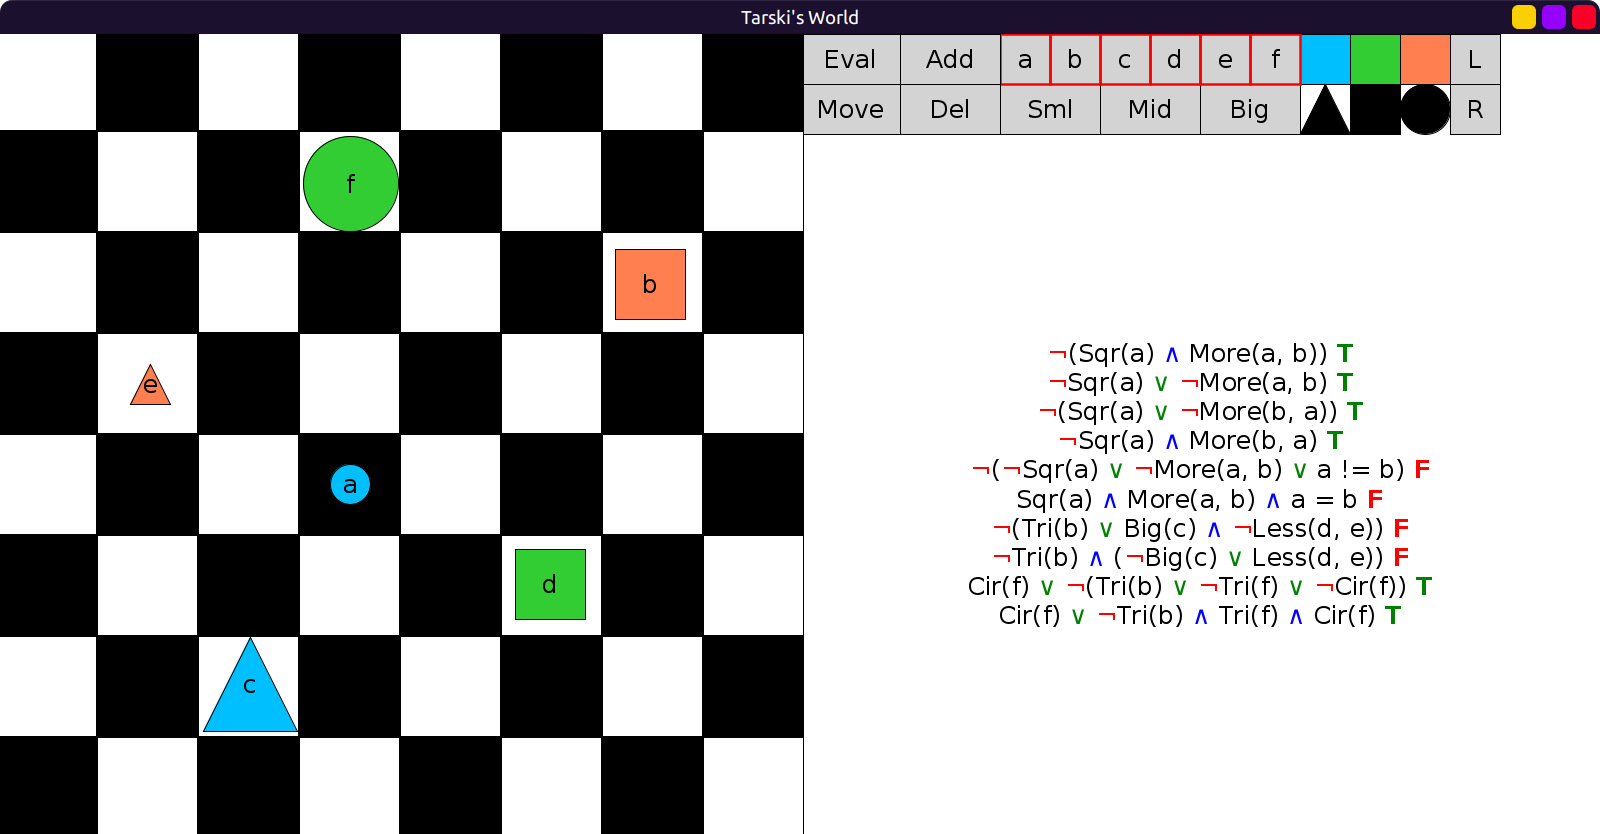
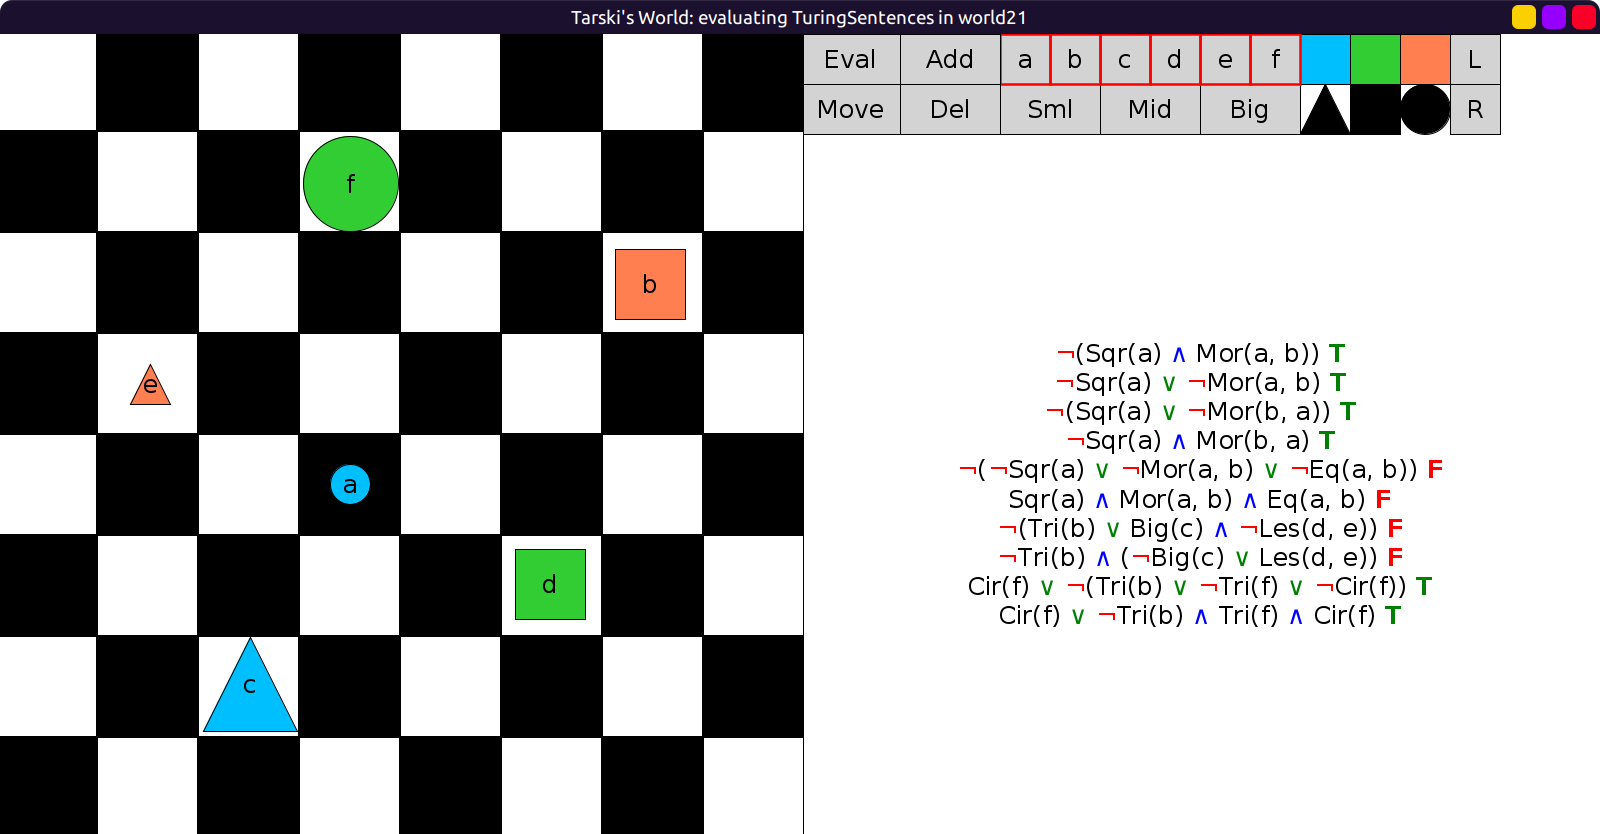
rework ex21

Changed region(s): [[0.625, 0.4053, 0.9062, 0.6859], [0.3438, 0.0, 0.6562, 0.0312]]

diff --git a/examples/propositional-logic/21/README.md b/examples/propositional-logic/21/README.md
@@ -21,7 +21,7 @@ each followed by an empty sentence position.
 5. Cir(f) ∨ ¬(Tri(b) ∨ ¬Tri(f) ∨ ¬Cir(f))
 
 - In the empty positions, write the negation normal form of the sentence above it.
-- Then build any world in `grid21` where all of the names are in use.
+- Then build any world in `world21` where all of the names are in use.
   - You do not have to make all the sentences true. Any world is OK.
 - Then run `run21` to check them.
 - If you have gotten the negation normal forms correct,
@@ -30,8 +30,8 @@ each followed by an empty sentence position.
 - Verify that this is so in your world.
 - Save the modified sentences in `TuringSentences`.
 
-(Recall that equality `=` means "value equality", a.k.a. equality:
-`Eq(a, b)` if the blocks labeled `a` and `b` are equal in size, shape and tone.
-This is in contrast to "reference equality" `Loc`, a.k.a. identity:
-`Loc(x,y)` means that `x` and `y` have the same row and column on the board,
+(Recall that `Eq` means "value equality", a.k.a. equality:
+`Eq(a, b)` means the blocks labeled `a` and `b` are equal in size, shape and tone.
+This is in contrast to "reference equality" `=`, a.k.a. identity:
+`x = y` means that `x` and `y` have the same row and column on the board,
 in other words they refer to the same one block.)

diff --git a/examples/propositional-logic/21/solution.md b/examples/propositional-logic/21/solution.md
@@ -21,10 +21,10 @@ Notice that we do have to eliminate double negations.
 Because ¬¬A has a non-atomic formula (¬A) that has negation applied to it.
 
 For the world, there is no wrong answer, you can build any world
-where all 6 names a,b,c,d,e,f are in use.
+where all 6 names `a,b,c,d,e,f` are in use.
 
 ```scala
-val grid21: Grid = Map(
+val world21: Grid = Map(
   (3, 1) -> Block(Sml, Tri, Red, "e"),
   (1, 3) -> Block(Big, Cir, Lim, "f"),
   (2, 6) -> Block(Mid, Sqr, Red, "b"),
